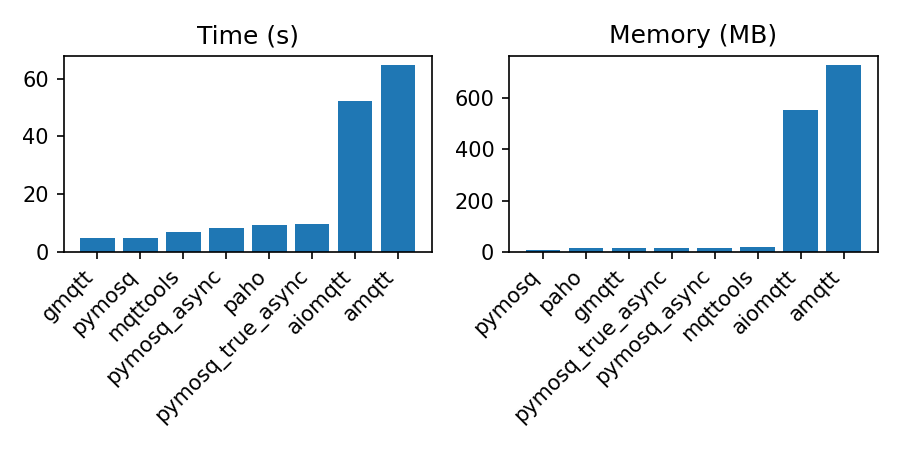
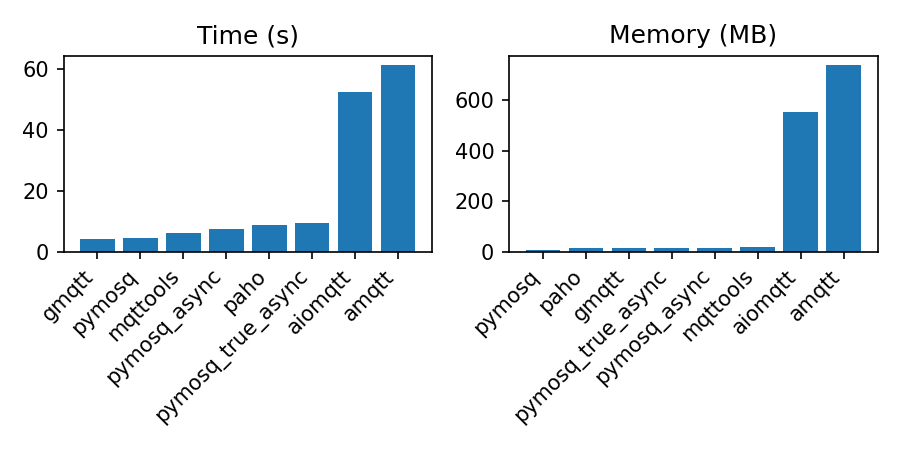
re-design of passing client to callbacks

diff --git a/pymosquitto/client.py b/pymosquitto/client.py
@@ -88,14 +88,13 @@ class Method:
         method_name = self._func.__name__
 
         if not hasattr(obj, method_name):
-            _obj = weakref.proxy(obj)
             func = self._func
             is_mosq = self._is_mosq
 
             def method(self_, *args):
                 return self_.call(func, *args, is_mosq=is_mosq)
 
-            setattr(obj, method_name, types.MethodType(method, _obj))
+            setattr(obj, method_name, types.MethodType(method, weakref.proxy(obj)))
 
         return getattr(obj, method_name)
 
@@ -116,62 +115,62 @@ class Callback:
             self._wrapped_callback = self._decorator(self._wrapper)
         elif not callback:
             self._wrapped_callback = self._decorator(0)
-        self._setter(obj.mosq_ptr, self._wrapped_callback)
+        obj.call(self._setter, self._wrapped_callback)
 
     def __get__(self, obj, objtype=None):
         return getattr(obj, self._attr_name)
 
 
 def _connect_callback_wrapper(mosq, userdata, rc):
-    client = clients.get(mosq, None)
+    client = t.cast(Client, userdata)
     if client and client.on_connect:
         client.on_connect(client, client.userdata(), ConnackCode(rc))
 
 
 def _connect_with_flags_callback_wrapper(mosq, userdata, rc, flags):
-    client = clients.get(mosq, None)
+    client = t.cast(Client, userdata)
     if client and client.on_connect_with_flags:
         client.on_connect_with_flags(client, client.userdata(), ConnackCode(rc), flags)
 
 
 def _connect_v5_callback_wrapper(mosq, userdata, rc, flags, props):
-    client = clients.get(mosq, None)
+    client = t.cast(Client, userdata)
     if client and client.on_connect_v5:
         client.on_connect_v5(client, client.userdata(), ConnackCode(rc), flags, props)
 
 
 def _disconnect_callback_wrapper(mosq, userdata, rc):
-    client = clients.get(mosq, None)
+    client = t.cast(Client, userdata)
     if client and client.on_disconnect:
         client.on_disconnect(client, client.userdata(), ConnackCode(rc))
 
 
 def _disconnect_v5_callback_wrapper(mosq, userdata, rc, props):
-    client = clients.get(mosq, None)
+    client = t.cast(Client, userdata)
     if client and client.on_disconnect_v5:
         client.on_disconnect_v5(client, client.userdata(), ConnackCode(rc), props)
 
 
 def _publish_callback_wrapper(mosq, userdata, mid):
-    client = clients.get(mosq, None)
+    client = t.cast(Client, userdata)
     if client and client.on_publish:
         client.on_publish(client, client.userdata(), mid)
 
 
 def _publish_v5_callback_wrapper(mosq, userdata, mid, props):
-    client = clients.get(mosq, None)
+    client = t.cast(Client, userdata)
     if client and client.on_publish_v5:
         client.on_publish_v5(client, client.userdata(), mid, props)
 
 
 def _message_callback_wrapper(mosq, userdata, msg):
-    client = clients.get(mosq, None)
+    client = t.cast(Client, userdata)
     if client and client.on_message:
         client.on_message(client, client.userdata(), MQTTMessage.from_struct(msg))
 
 
 def _message_v5_callback_wrapper(mosq, userdata, msg, props):
-    client = clients.get(mosq, None)
+    client = t.cast(Client, userdata)
     if client and client.on_message_v5:
         client.on_message_v5(
             client, client.userdata(), MQTTMessage.from_struct(msg), props
@@ -179,7 +178,7 @@ def _message_v5_callback_wrapper(mosq, userdata, msg, props):
 
 
 def _subscribe_callback_wrapper(mosq, userdata, mid, count, granted_qos):
-    client = clients.get(mosq, None)
+    client = t.cast(Client, userdata)
     if client and client.on_subscribe:
         client.on_subscribe(
             client,
@@ -191,7 +190,7 @@ def _subscribe_callback_wrapper(mosq, userdata, mid, count, granted_qos):
 
 
 def _subscribe_v5_callback_wrapper(mosq, userdata, mid, count, granted_qos, props):
-    client = clients.get(mosq, None)
+    client = t.cast(Client, userdata)
     if client and client.on_subscribe_v5:
         client.on_subscribe_v5(
             client,
@@ -204,26 +203,23 @@ def _subscribe_v5_callback_wrapper(mosq, userdata, mid, count, granted_qos, prop
 
 
 def _unsubscribe_callback_wrapper(mosq, userdata, mid):
-    client = clients.get(mosq, None)
+    client = t.cast(Client, userdata)
     if client and client.on_unsubscribe:
         client.on_unsubscribe(client, client.userdata(), mid)
 
 
 def _unsubscribe_v5_callback_wrapper(mosq, userdata, mid, props):
-    client = clients.get(mosq, None)
+    client = t.cast(Client, userdata)
     if client and client.on_unsubscribe_v5:
         client.on_unsubscribe_v5(client, client.userdata(), mid, props)
 
 
 def _log_callback_wrapper(mosq, userdata, level, msg):
-    client = clients.get(mosq, None)
+    client = t.cast(Client, userdata)
     if client and client.on_log:
         client.on_log(client, client.userdata(), LogLevel(level), msg.decode())
     elif client and client.logger:
         client.logger.debug("MOSQ/%s %s", LogLevel(level).name, msg.decode())
-
-
-clients: weakref.WeakValueDictionary[int, t.Any] = weakref.WeakValueDictionary()
 
 
 class Client:
@@ -236,10 +232,9 @@ class Client:
             libmosq.mosquitto_new,
             client_id,
             clean_start,
-            None,
+            self,
             use_errno=True,
         )
-        clients[self._mosq_ptr] = self
 
     @property
     def mosq_ptr(self):
@@ -250,7 +245,6 @@ class Client:
         return self._logger
 
     def __del__(self):
-        self.user_data_set(None)
         self.destroy()
 
     def call(self, func, *args, is_mosq=True, **kwargs):

diff --git a/tests/test_client.py b/tests/test_client.py
@@ -1,5 +1,6 @@
 import threading
 import time
+import logging
 from types import SimpleNamespace
 
 import pytest
@@ -18,14 +19,14 @@ def client_factory(token):
     return _factory
 
 
-@pytest.fixture(scope="module")
+@pytest.fixture
 def client(client_factory, host, port):
     def _on_connect(client, userdata, rc):
         if rc != c.ConnackCode.ACCEPTED:
             raise RuntimeError(f"Client connection error: {rc.value}/{rc.name}")
         is_connected.set()
 
-    client = client_factory(userdata=SimpleNamespace())
+    client = client_factory(userdata=SimpleNamespace(), logger=logging.getLogger())
     is_connected = threading.Event()
     client.on_connect = _on_connect
     client.connect(host, port)

diff --git a/README.md b/README.md
@@ -79,14 +79,14 @@ Losers excluded:
 
 ```text
 Module;Time;RSS
-pymosq;0:04.72;18604
-pymosq_async;0:08.31;25824
-pymosq_true_async;0:09.76;24964
-paho;0:09.13;23220
-gmqtt;0:04.67;24664
-mqttools;0:06.74;27820
-aiomqtt;0:52.20;577952
-amqtt;1:04.67;757272
+pymosq;0:04.51;18432
+pymosq_async;0:07.43;25424
+pymosq_true_async;0:09.28;25000
+paho;0:08.74;23400
+gmqtt;0:04.16;24688
+mqttools;0:06.17;27804
+aiomqtt;0:52.38;578184
+amqtt;1:01.23;767248
 ```
 
 
